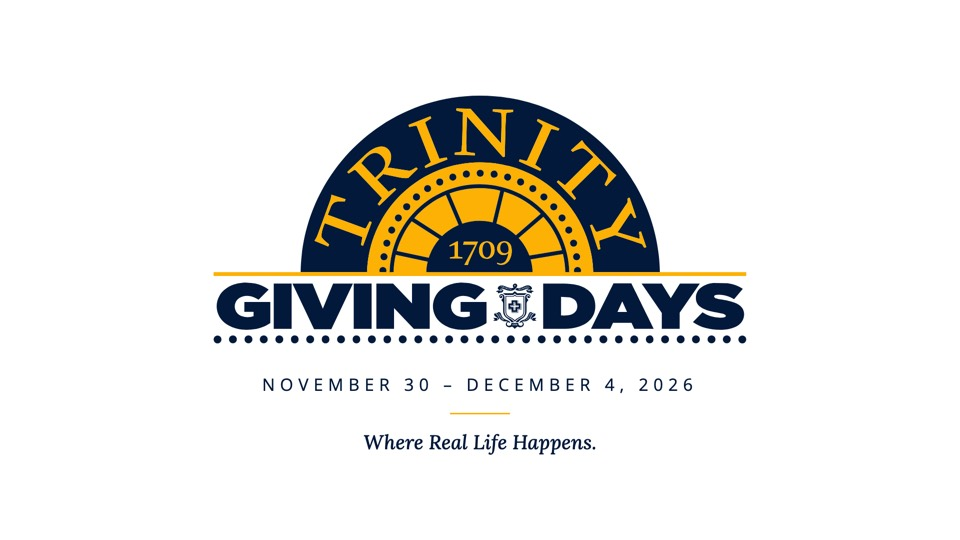
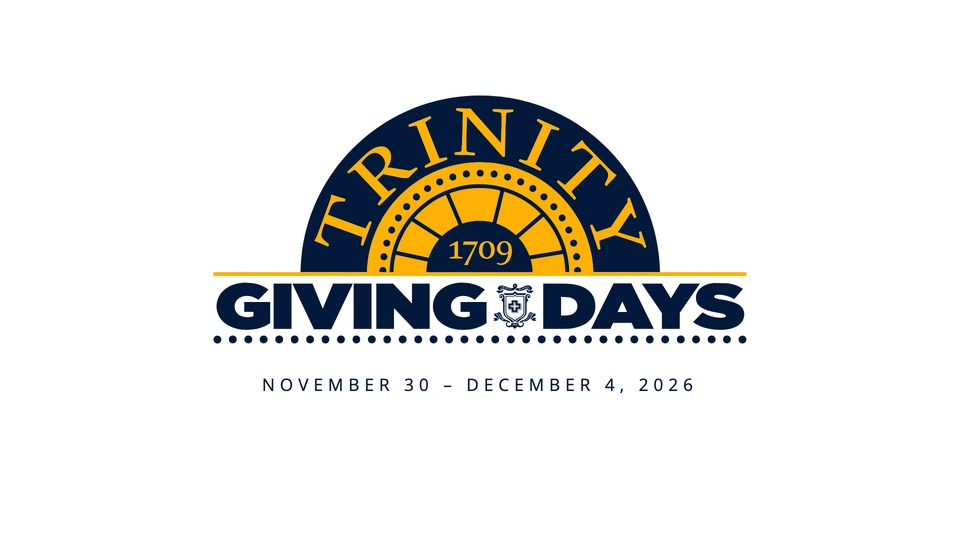
Swap hero video to "Trinity Giving Days Have Begun!" and new title card
New Vimeo video (1249860259, 1:22), updated caption and titles, and a title
card without the tagline so it no longer collides with the caption on phones.

Changed region(s): [[0.375, 0.8, 0.625, 0.8593], [0.4688, 0.7407, 0.5312, 0.7704]]

diff --git a/public/giving-days-v2.html b/public/giving-days-v2.html
@@ -937,9 +937,9 @@ main:focus, #gm-thanks-title:focus { outline: none; }
 <!--SHIELD:BODY-->
   <section class="hero" aria-label="Giving Days progress">
     <div class="frame">
-      <div class="video-frame" id="video-frame" data-vimeo="816728351" role="button" tabindex="0" aria-label="Play video: Why I Give">
+      <div class="video-frame" id="video-frame" data-vimeo="1249860259" role="button" tabindex="0" aria-label="Play video: Trinity Giving Days Have Begun!">
         <div class="video-play"></div>
-        <div class="video-cap"><b>Why I Give</b>Trinity Giving Days · 2 min</div>
+        <div class="video-cap"><b>Trinity Giving Days Have Begun!</b>Trinity Giving Days · 1:22</div>
       </div>
       <div class="prog">
         <div class="prog-day"><span id="prog-day-label">Giving Days</span><span class="pips" id="prog-pips"></span></div>
@@ -1559,7 +1559,7 @@ const vf = document.getElementById('video-frame');
 function playVideo() {
   if (vf.classList.contains('playing')) return;
   vf.classList.add('playing');
-  vf.insertAdjacentHTML('beforeend', `<iframe src="https://player.vimeo.com/video/${vf.dataset.vimeo}?autoplay=1&dnt=1&title=0&byline=0&portrait=0" allow="autoplay; fullscreen; picture-in-picture" allowfullscreen title="Trinity Giving Days video"></iframe>`);
+  vf.insertAdjacentHTML('beforeend', `<iframe src="https://player.vimeo.com/video/${vf.dataset.vimeo}?autoplay=1&dnt=1&title=0&byline=0&portrait=0" allow="autoplay; fullscreen; picture-in-picture" allowfullscreen title="Trinity Giving Days Have Begun!"></iframe>`);
 }
 vf.addEventListener('click', playVideo);
 vf.addEventListener('keydown', e => { if (e.key === 'Enter' || e.key === ' ') { e.preventDefault(); playVideo(); } });
